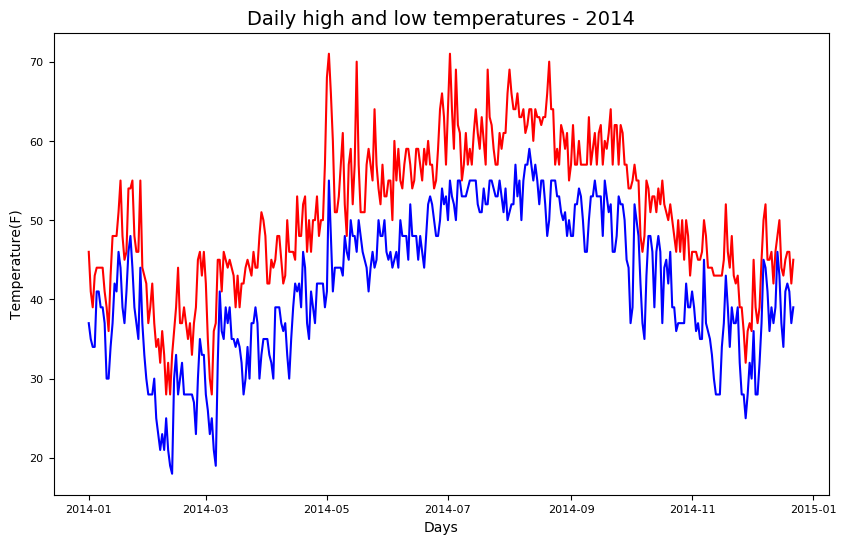
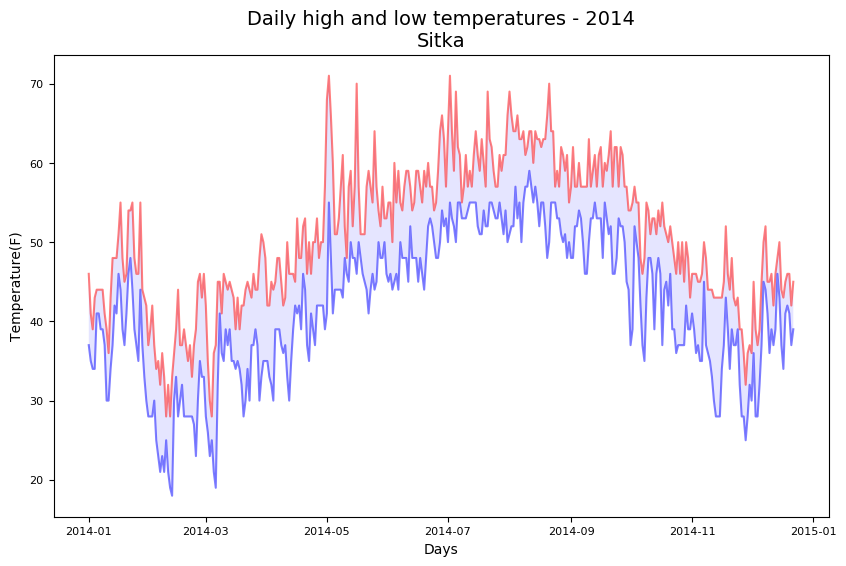
added death valley with missing data correction

diff --git a/modules/highs_lows.py b/modules/highs_lows.py
@@ -1,25 +1,37 @@
 import csv
 import matplotlib.pyplot as plt
 from datetime import datetime 
-filename = 'data\\sitka_weather_2014.csv'
 
-with open(filename) as f:
+filename = 'death_valley_2014.csv'
+
+fullfilename = 'data\\' + filename
+
+with open(fullfilename) as f:
     #getting headers
     reader = csv.reader(f)
     header_row = next(reader)
     #getting the high temps with dates
     dates, highs, lows = [], [], []
     for row in reader:
-        highs.append(int(row[1]))
-        lows.append(int(row[3]))
-        dates.append(datetime.strptime(row[0], "%Y-%m-%d"))
+        try:
+            date = datetime.strptime(row[0], "%Y-%m-%d")
+            high = int(row[1])
+            low = int(row[3]) 
+        except ValueError:
+            print(date, 'missing data')
+        else:
+            dates.append(date)
+            highs.append(high)
+            lows.append(low)
     #plotting
     fig = plt.figure(figsize=(10, 6))
-    plt.plot(dates, highs, c='red')
-    plt.plot(dates, lows, c='blue')
+    plt.plot(dates, highs, c='red', alpha=0.5)
+    plt.plot(dates, lows, c='blue', alpha=0.5)
+    plt.fill_between(dates, highs, lows, facecolor='blue', alpha=0.1)
     plt.title("Daily high and low temperatures - 2014", fontsize=14)
     plt.xlabel("Days", fontsize=10)
+    fig.autofmt_xdate()
     plt.ylabel("Temperature(F)", fontsize=10)
     plt.tick_params(axis='both', which='major', labelsize=8)
-    plt.savefig('visualizations\\sitka_weather_2014_plot.png', bbox_inches='tight')
+    plt.savefig('visualizations\\'+filename.split(".")[0]+'_plot.png', bbox_inches='tight')
     plt.show()
